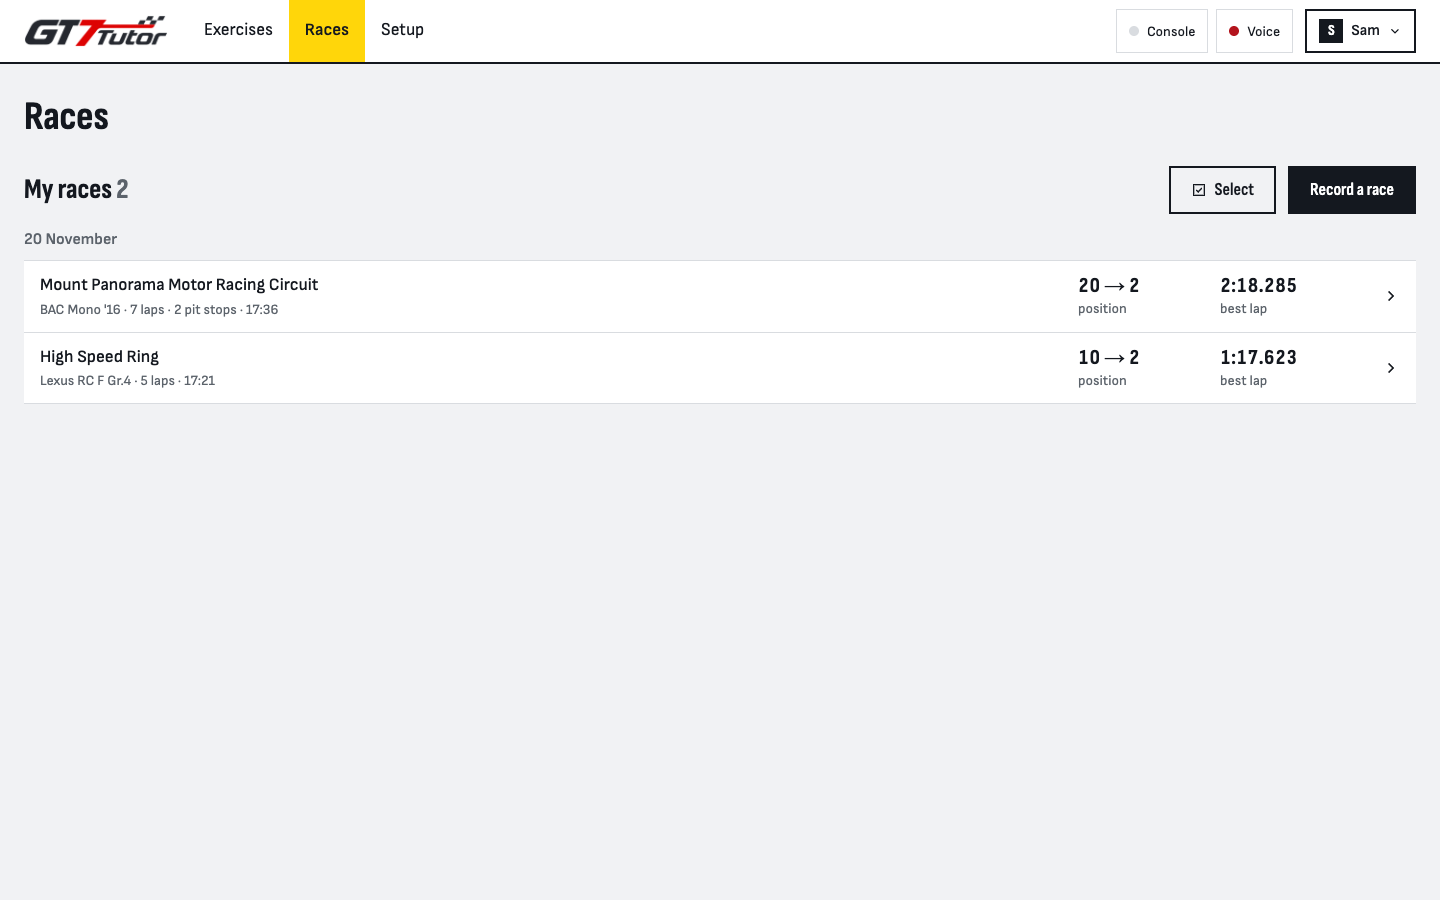
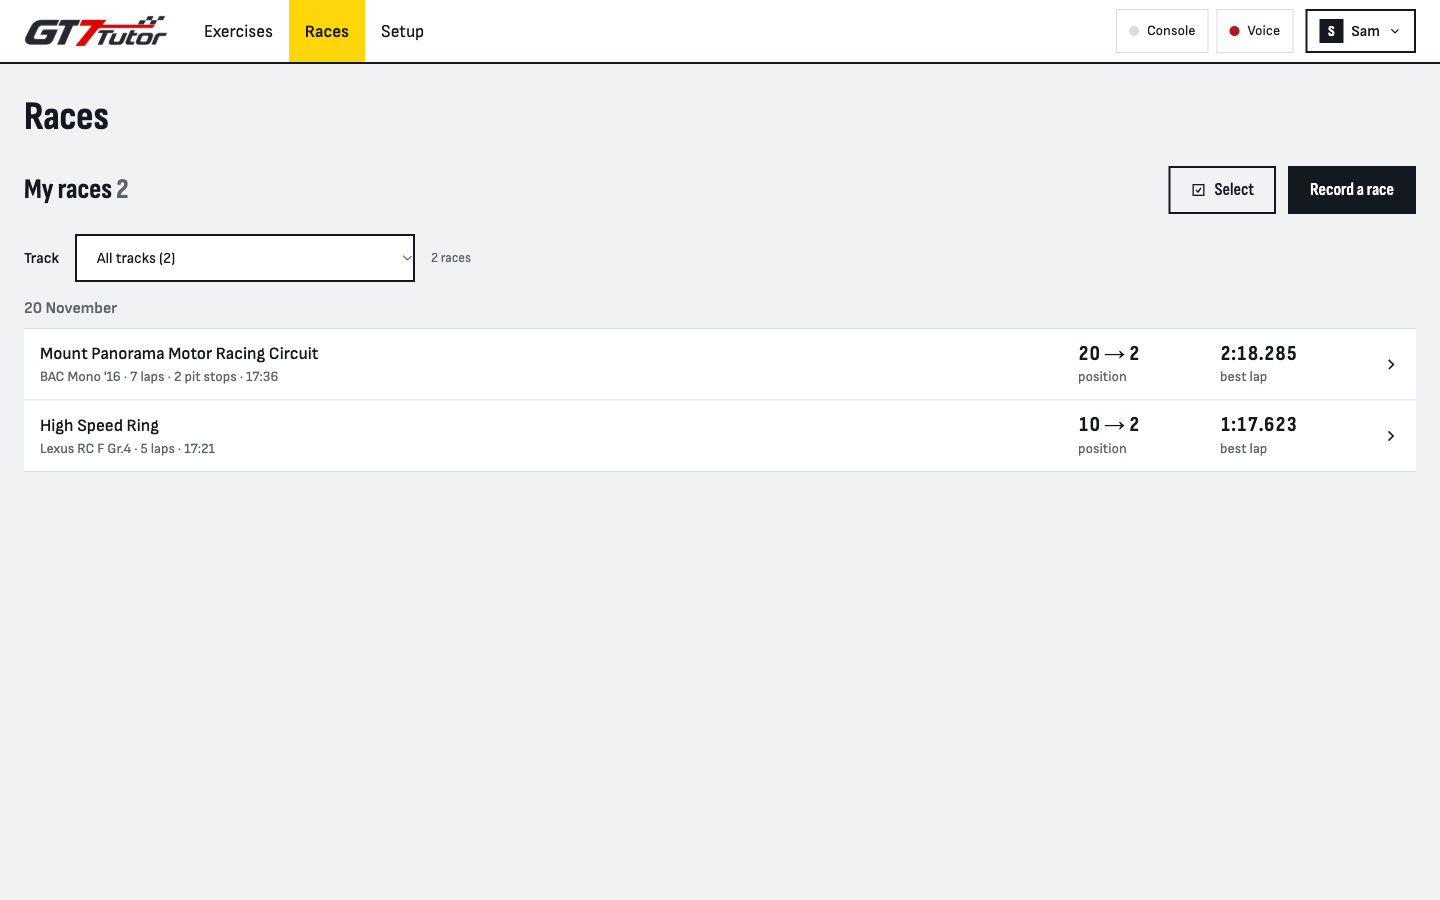
feat: filter the races list by track

diff --git a/apps/web/test/races.spec.tsx b/apps/web/test/races.spec.tsx
@@ -239,6 +239,80 @@ describe('races list', () => {
     expect(el('input', elWith('.race-row', 'Mount Panorama'))).not.toBeChecked();
   });
 
+  it('track_filter_is_hidden_when_all_races_are_on_one_track', async () => {
+    racesApi([PANORAMA, race({ id: OLDER_ID, startedAt: localIso(18, 9, 5) })]);
+    renderApp({ path: '/races' });
+    expect(await screen.findByRole('heading', { level: 2, name: 'My races 2' })).toBeInTheDocument();
+    expect(screen.queryByLabelText('Track')).not.toBeInTheDocument();
+    expect(screen.queryByText('2 races')).not.toBeInTheDocument();
+  });
+
+  it('track_filter_lists_the_tracks_sorted_with_their_race_counts', async () => {
+    racesApi([PANORAMA, RING, OLDER, race({ id: 'a0000000-0000-4000-8000-000000000004', startedAt: localIso(17, 8, 0) })]);
+    renderApp({ path: '/races' });
+    const select = await screen.findByLabelText('Track');
+    expect(within(select).getAllByRole('option').map(option => option.textContent)).toEqual([
+      'All tracks (4)',
+      'High Speed Ring (1)',
+      'Mount Panorama (2)',
+      'Tsukuba Circuit (1)'
+    ]);
+    expect(screen.getByText('4 races')).toBeInTheDocument();
+  });
+
+  it('choosing_a_track_shows_only_its_races_and_drops_empty_days', async () => {
+    const second = race({ id: 'a0000000-0000-4000-8000-000000000004', startedAt: localIso(17, 8, 0) });
+    racesApi([PANORAMA, RING, OLDER, second]);
+    renderApp({ path: '/races' });
+    const user = userEvent.setup();
+    await user.selectOptions(await screen.findByLabelText('Track'), 'Mount Panorama');
+    expect(screen.getByText('2 of 4 races')).toBeInTheDocument();
+    expect(screen.queryByRole('link', { name: /^High Speed Ring/ })).not.toBeInTheDocument();
+    expect(screen.queryByRole('link', { name: /^Tsukuba Circuit/ })).not.toBeInTheDocument();
+    expect(els('.race-day').map(day => within(day).getByRole('heading').textContent)).toEqual(['20 November', '17 November']);
+    expect(screen.getByRole('heading', { level: 2, name: 'My races 4' })).toBeInTheDocument();
+    await user.selectOptions(screen.getByLabelText('Track'), 'All tracks (4)');
+    expect(screen.getByText('4 races')).toBeInTheDocument();
+    expect(screen.getByRole('link', { name: /^Tsukuba Circuit/ })).toBeInTheDocument();
+  });
+
+  it('track_filter_uses_the_track_name_the_list_shows', async () => {
+    racesApi([PANORAMA, race({ id: RING_ID, trackName: null, trackCandidates: [], startedAt: localIso(19, 10, 0) })]);
+    renderApp({ path: '/races' });
+    const select = await screen.findByLabelText('Track');
+    expect(within(select).getAllByRole('option').map(option => option.textContent)).toContain('Race without a track name (1)');
+  });
+
+  it('selection_and_delete_work_on_the_filtered_list_only', async () => {
+    const api = racesApi().on('POST /api/races/delete', { deleted: 1 });
+    renderApp({ path: '/races' });
+    const user = userEvent.setup();
+    await user.selectOptions(await screen.findByLabelText('Track'), 'High Speed Ring (1)');
+    await user.click(screen.getByRole('button', { name: 'Select' }));
+    expect(els('.race-row')).toHaveLength(1);
+    await user.click(el('input', elWith('.race-row', 'High Speed Ring')));
+    const bar = el('.selection-bar');
+    expect(bar).toHaveTextContent('1 selected');
+    await user.click(within(bar).getByRole('button', { name: 'Delete 1 race' }));
+    await user.click(within(dialogOf('Delete 1 race?')).getByRole('button', { name: 'Delete race' }));
+    await waitFor(() => expect(api.called('POST /api/races/delete')).toBe(true));
+    expect(api.calls.find(call => call.path === '/api/races/delete')!.body).toEqual({ ids: [RING_ID] });
+  });
+
+  it('changing_the_track_clears_the_picked_races', async () => {
+    racesApi();
+    renderApp({ path: '/races' });
+    const user = userEvent.setup();
+    await user.click(await screen.findByRole('button', { name: 'Select' }));
+    await user.click(el('input', elWith('.race-row', 'High Speed Ring')));
+    expect(el('.selection-bar')).toHaveTextContent('1 selected');
+    await user.selectOptions(screen.getByLabelText('Track'), 'Mount Panorama (1)');
+    expect(el('.selection-bar')).toHaveTextContent('0 selected');
+    expect(within(el('.selection-bar')).getByRole('button', { name: 'Delete 0 races' })).toBeDisabled();
+    await user.selectOptions(screen.getByLabelText('Track'), 'All tracks (3)');
+    expect(el('input', elWith('.race-row', 'High Speed Ring'))).not.toBeChecked();
+  });
+
   it('race_page_route_shows_not_found_for_a_bad_id', async () => {
     racesApi();
     renderApp({ path: '/races/not-a-uuid' });

diff --git a/apps/web/src/features/races/RacesView.tsx b/apps/web/src/features/races/RacesView.tsx
@@ -1,4 +1,4 @@
-import { useEffect, useRef, useState } from 'react';
+import { useEffect, useMemo, useRef, useState } from 'react';
 import type { RaceSummary } from '@gt7/contracts';
 import { api, ApiError } from '../../api/client.ts';
 import { useLiveState } from '../../api/live.tsx';
@@ -30,6 +30,14 @@ function factsText(race: RaceSummary, wide: boolean): string {
 
 function positionText(race: RaceSummary): string {
   return `${race.startPosition} → ${race.finishPosition}`;
+}
+
+type TrackCount = { name: string; count: number };
+
+function trackCounts(races: RaceSummary[]): TrackCount[] {
+  const counts = new Map<string, number>();
+  for (const race of races) counts.set(raceName(race), (counts.get(raceName(race)) ?? 0) + 1);
+  return [...counts].map(([name, count]) => ({ name, count })).sort((a, b) => a.name.localeCompare(b.name));
 }
 
 function byDay(races: RaceSummary[]): RaceDay[] {
@@ -117,11 +125,21 @@ export function RacesView() {
     seenRaceId.current = lastRaceId;
     races.reload();
   }, [lastRaceId, races.reload]);
+  const [track, setTrack] = useState('');
   const list = races.data;
+  const tracks = useMemo(() => trackCounts(list ?? []), [list]);
+  const filtering = tracks.length > 1;
+  const activeTrack = filtering && tracks.some(item => item.name === track) ? track : '';
+  const shown = useMemo(() => (activeTrack ? (list ?? []).filter(race => raceName(race) === activeTrack) : (list ?? [])), [list, activeTrack]);
+  const shownPicked = shown.filter(race => picked.has(race.id));
   const toggle = (id: string) => {
     const next = new Set(picked);
     if (!next.delete(id)) next.add(id);
     setPicked(next);
+  };
+  const chooseTrack = (name: string) => {
+    setTrack(name);
+    setPicked(new Set());
   };
   const stopSelecting = () => {
     setSelecting(false);
@@ -182,7 +200,21 @@ export function RacesView() {
             <p>{wide ? t('races.empty.text-wide') : t('races.empty.text')}</p>
           </div>
         ) : null}
-        {byDay(list ?? []).map(day => (
+        {list && filtering ? (
+          <div className="races-filter">
+            <label htmlFor="races-track">{t('races.list.track-label')}</label>
+            <select id="races-track" className="input track-filter" value={activeTrack} onChange={event => chooseTrack(event.target.value)}>
+              <option value="">{t('races.list.all-tracks', { count: list.length })}</option>
+              {tracks.map(item => (
+                <option key={item.name} value={item.name}>
+                  {t('races.list.track-option', { track: item.name, count: item.count })}
+                </option>
+              ))}
+            </select>
+            <span className="sub">{activeTrack ? t('races.list.count-filtered', { shown: shown.length, count: list.length }) : t('races.list.count', { count: list.length })}</span>
+          </div>
+        ) : null}
+        {byDay(shown).map(day => (
           <div key={day.key} className="race-day">
             <h3>{formatDay(day.key)}</h3>
             <div className="race-list">
@@ -202,8 +234,8 @@ export function RacesView() {
             </div>
           </div>
         ))}
-        {selecting ? <SelectionBar count={picked.size} action={t('races.delete-selected', { count: picked.size })} onCancel={stopSelecting} onAction={() => setConfirming(true)} /> : null}
-        {confirming ? <DeleteRacesDialog ids={(list ?? []).filter(race => picked.has(race.id)).map(race => race.id)} onKeep={() => setConfirming(false)} onDeleted={deleted} /> : null}
+        {selecting ? <SelectionBar count={shownPicked.length} action={t('races.delete-selected', { count: shownPicked.length })} onCancel={stopSelecting} onAction={() => setConfirming(true)} /> : null}
+        {confirming ? <DeleteRacesDialog ids={shownPicked.map(race => race.id)} onKeep={() => setConfirming(false)} onDeleted={deleted} /> : null}
       </section>
     </div>
   );

diff --git a/apps/web/src/features/races/races.css b/apps/web/src/features/races/races.css
@@ -39,6 +39,25 @@
   margin: 0;
 }
 
+.races-filter {
+  display: flex;
+  align-items: center;
+  gap: 16px;
+  margin-top: 20px;
+}
+
+.races-filter label {
+  font-size: 15px;
+  font-weight: 600;
+}
+
+.races-filter .track-filter {
+  width: 340px;
+  height: 48px;
+  padding: 0 16px;
+  font-size: 15px;
+}
+
 .races-empty .lede {
   margin-bottom: 8px;
 }
@@ -111,6 +130,21 @@
 }
 
 @media (max-width: 899px) {
+  .races-filter {
+    flex-direction: column;
+    align-items: stretch;
+    gap: 6px;
+    margin-top: 20px;
+  }
+
+  .races-filter .track-filter {
+    width: 100%;
+  }
+
+  .races-filter .sub {
+    margin-top: 2px;
+  }
+
   .my-races-head {
     margin-top: 4px;
     gap: 8px;

diff --git a/docs/user-guide/README.md b/docs/user-guide/README.md
@@ -565,7 +565,7 @@ GT7 Tutor can record a race by laps in the game. After the race, you look at you
 
 **Result:** the dark recording screen opens. It starts and stops with the race. You do not need to touch GT7 Tutor during the race.
 
-![Races with My races 2, the buttons Select and Record a race, and two races of one day. Each row gives the track, the car, the laps, the position and the best lap.](images/races-list.webp)
+![Races with My races 2, the buttons Select and Record a race, and the Track field with All tracks. Two races of one day follow. Each row gives the track, the car, the laps, the position and the best lap.](images/races-list.webp)
 
 The recording screen has these states:
 
@@ -747,6 +747,10 @@ When the race has no golden lap, the tab shows `No golden lap for this race` and
 - **Too few clean laps**: a golden lap needs 3 clean laps. The text names the clean laps and tells why each other lap does not count. The reasons are the first lap, the first recorded lap, a pit stop and a lap without a time for each part. An example: `Laps 2, 3, 5 and 6 have a pit stop and do not count.`
 - **A turn without a clean lap**: `Each clean lap left the track in turn 5, so no clean lap gives a time for that turn.`
 - **Parts that do not fit**: `Each clean lap left the track in one turn or more, and the other parts do not fit together at the joins.`
+
+### Show the races of one track
+
+When your races are on 2 or more tracks, the list has a **Track** field under **My races**. Each choice gives the track and the number of races on it. Choose a track to show only its races. Choose **All tracks** to show all of them. The text next to the field gives the number of races that show, for example `2 of 9 races`. **Select** works on the races that show. A new choice of track clears your marks.
 
 ### Delete a race
 
